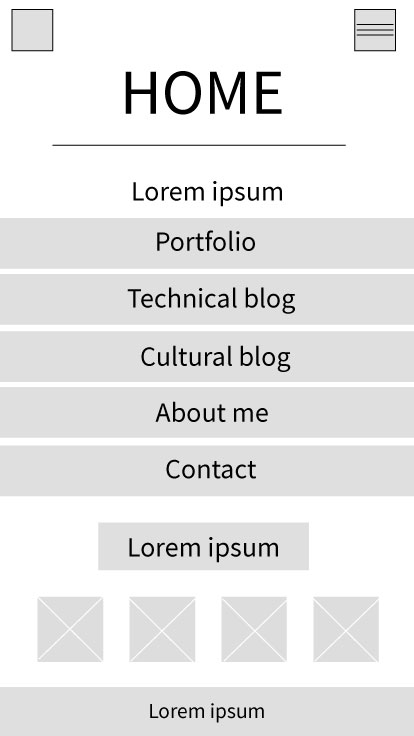
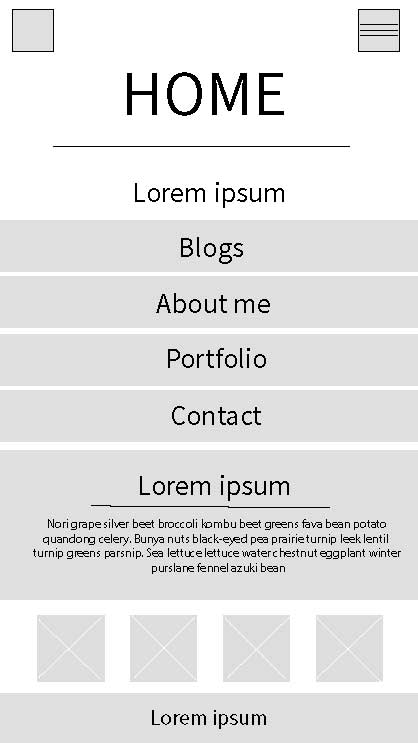
semantic html

diff --git a/index.html b/index.html
@@ -1,11 +1,115 @@
 <!DOCTYPE html>
-<html>
+<html lang="en">
   <head>
-    <title></title>
+    <title>Peter Kona's Blog</title>
     <meta charset="UTF-8">
-
+    <link href="styles/main.css" rel="stylesheet" type="text/css">
   </head>
   <body>
+    <div class="container">
+        <section= "header">
+          <a class ="logo" href= "#"> <img src="img/pklogo.png" ></a>
+          <a class ="menu" href= "#"> <img src="img/menu.png" ></a>
+          <h1>Dev blog</h1>
+          <hr></hr>
+          <h2>CODE EVERY DAY</h2>
+          <div class= "button">
+            <button>
 
+            </button>
+          </div>
+        </section>
+
+        <section class= "carts">
+
+          <h1 class="title">Title</h1>
+
+          <div class= "carts-row">
+            <div class= "blog-cart">
+            </div>
+          </div>
+
+          <div class= "carts-row">
+            <div class= "about-cart">
+            </div>
+          </div>
+
+          <div class= "carts-row">
+            <div class= "portfolio-cart">
+            </div>
+          </div>
+
+          <div class= "carts-row">
+            <div class= "contact-cart">
+            </div>
+          </div>
+
+      </section><!-- endof the carts -->
+
+      <section class= "social">
+        <div class= "social-box-icons">
+          <h1 class= "socialheader"></h1>
+
+          <a class ="mail" href= "#"> <img src="img/pklogo.png" ></a>
+          <a class ="codepen" href= "#"> <img src="img/pklogo.png" ></a>
+          <a class ="logo" href= "#"> <img src="img/pklogo.png" ></a>
+          <a class ="logo" href= "#"> <img src="img/pklogo.png" ></a>
+
+        </div>
+      </section><!-- endofthesocialboxicons -->
+
+      <footer>
+        <p>helloworld</p>
+      </footer> <!-- endofthefooter -->
+
+      <div class="row">
+    </div> <!-- endofthecontainer -->
+  </div> <!-- endofthecontainer -->
+
+
+
+
+    <div id="wrapper">
+      <header>
+        <a class ="logo" href= "#"> <img src="img/pklogo.png" ></a>
+        <a class ="menu" href= "#"> <img src="img/menu.png" ></a>
+        <h1 class = "mheader">Dev blog</h1>
+        <hr class = "line"</hr>
+        <h1 class="bout">CODE EVERY DAY</h1>
+      </header>
+        <div class = "blog">
+          <div class = "blogs">
+            <ul>
+              <li class="dropdown">
+                <a href="#" class="dropbtn">Technical Blog</a>
+                <div class="dropdown-content">
+                  <a href="blog/c1-reflection-blog.html">Reflection</a>
+                  <a href="blog/t2-html-css-dom-p1.html">HTML, CSS - DOM</a>
+                  <a href="blog/t2-html-css-dom-p2.html">HTML, CSS - DOM 2</a>
+                </div>
+              </li>
+            </ul>
+          </div>
+          <div class = "blogs">
+            <ul>
+              <li class="dropdown">
+                  <a href="#" class="dropbtn">Cultural Blog</a>
+                <div class="dropdown-content">
+                  <a href="blog/c1-time-and-habits-blog.html">Times and Habits</a>
+                  <a href="blog/c2-emotional-intelligence.html">Emotional Intelligence</a>
+                </div>
+              </li>
+            </ul>
+          </div>
+        </div>
+        <div class = "social">
+          <div class ="triangel">
+
+        </div>
+      </div>
+  <footer>
+  		<p>2016 Peter Kona</p>
+  </footer>
   </body>
+
 </html>
